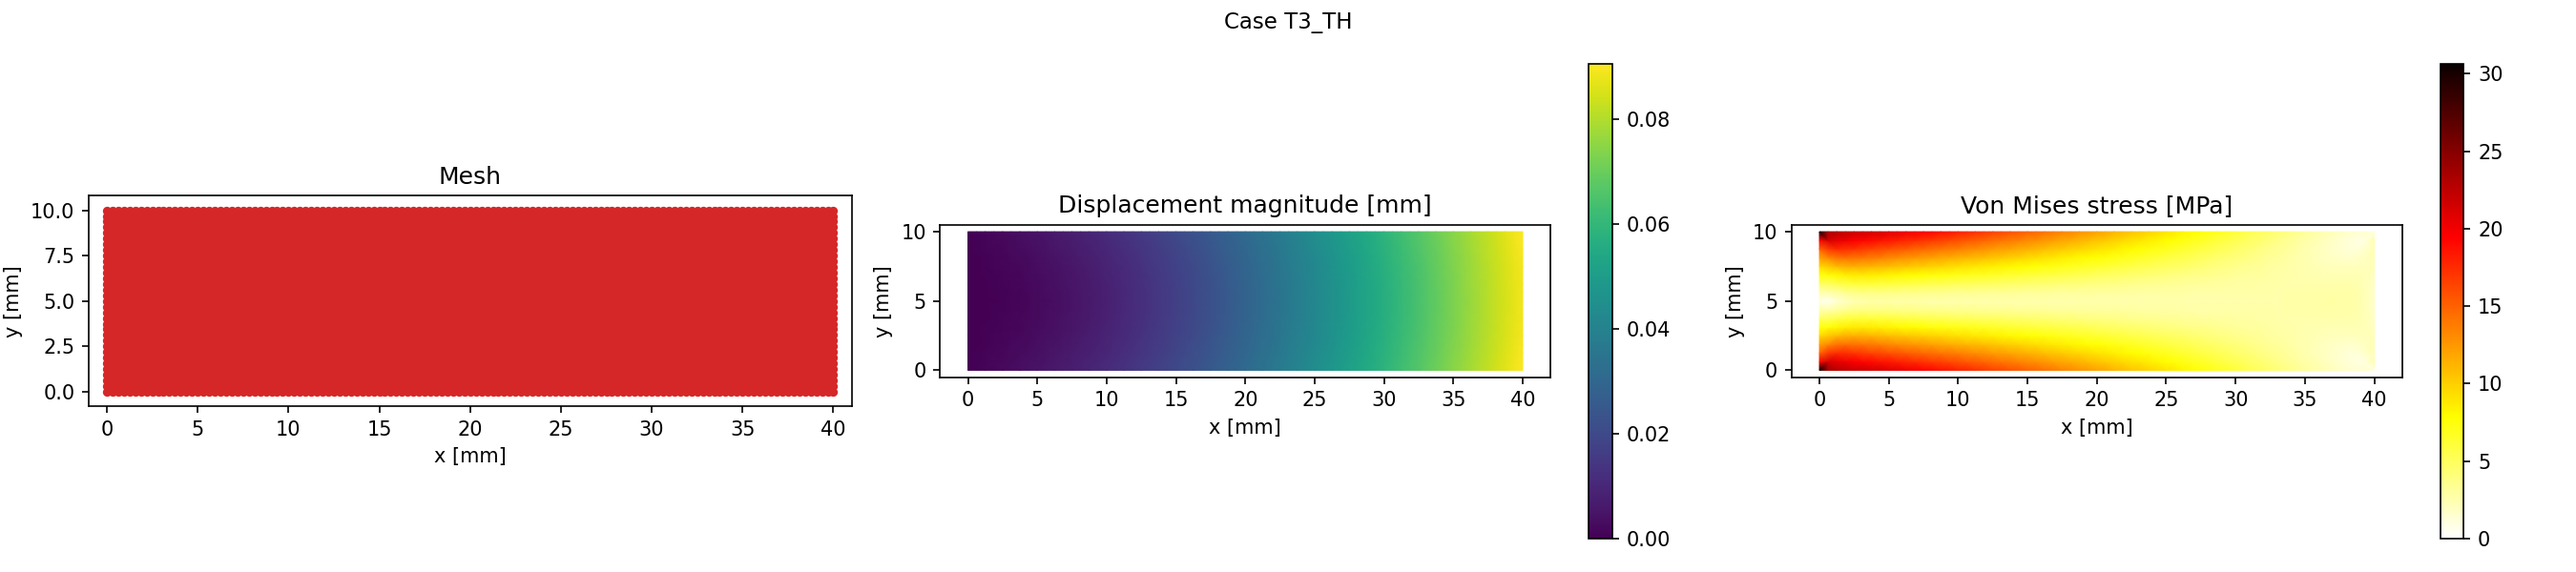
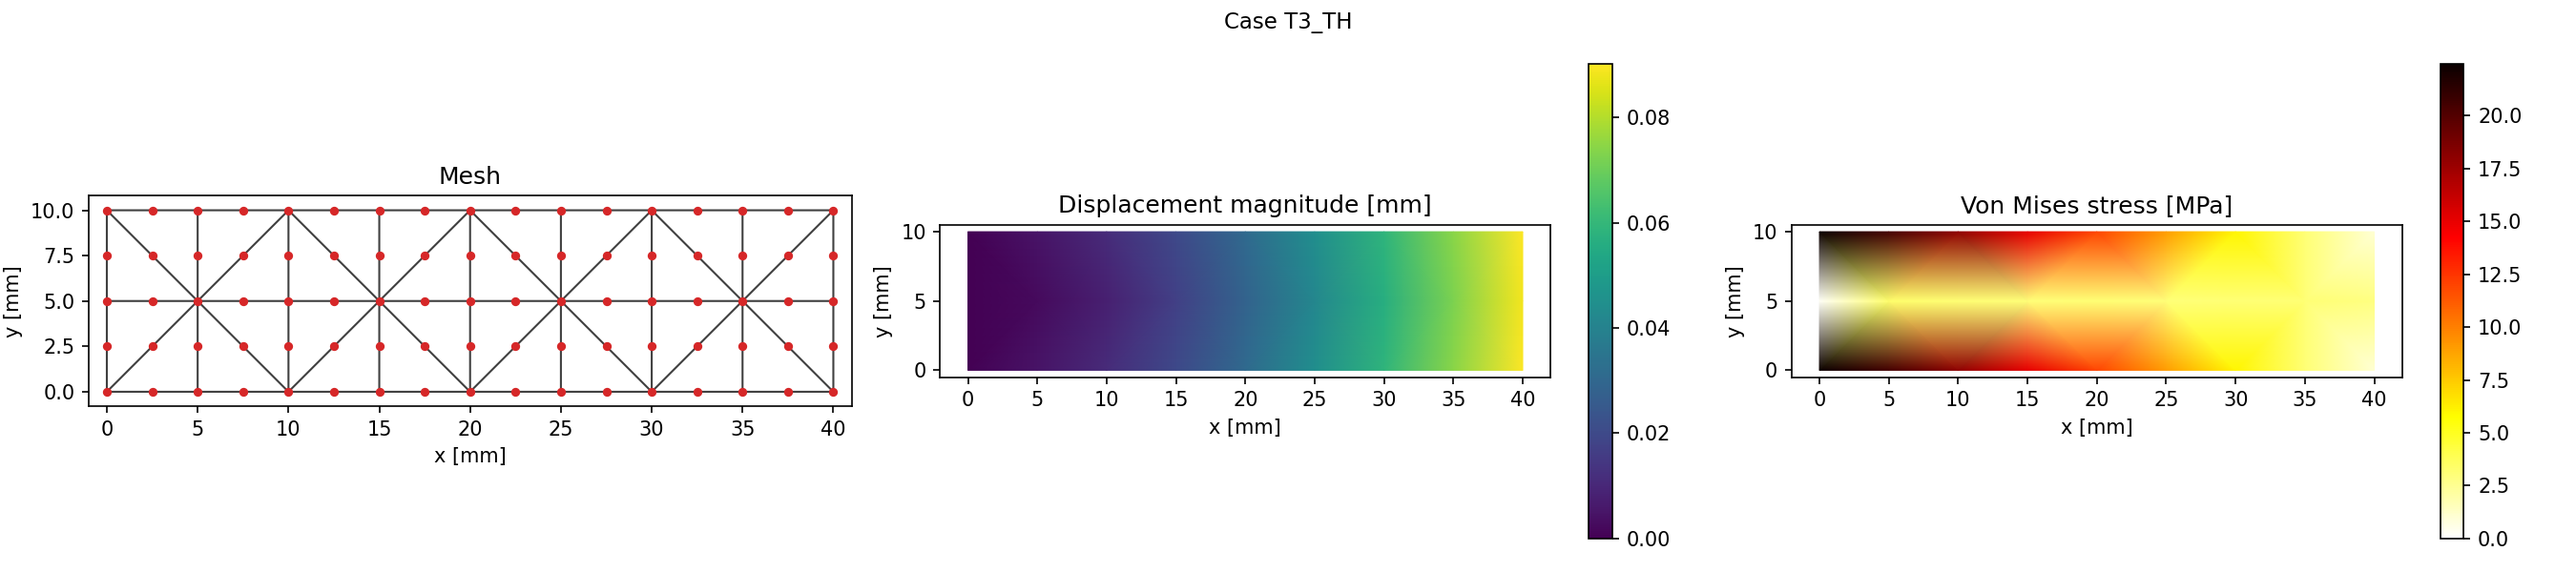
sec 2.1.2: revert Q3/T3 mesh to original nx=8 ny=2

diff --git a/sec_02/2.1/2/fem_plane_stress_beam.py b/sec_02/2.1/2/fem_plane_stress_beam.py
@@ -99,10 +99,10 @@ analysis_cases: list[dict[str, str]] = [
 mesh_pattern_cfg: dict[str, dict[str, int]] = {
     "Q1": {"nx": 4, "ny": 1},
     "Q2": {"nx": 4, "ny": 1},
-    "Q3": {"nx": 64, "ny": 16},
+    "Q3": {"nx": 8, "ny": 2},
     "T1": {"nx": 4, "ny": 1},
     "T2": {"nx": 4, "ny": 1},
-    "T3": {"nx": 64, "ny": 16},
+    "T3": {"nx": 8, "ny": 2},
 }
 
 # Parallelogram distortion applied to figure 2.3 distorted patterns Q2/T2.
